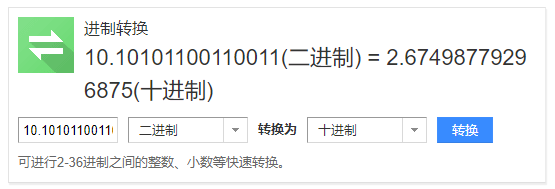
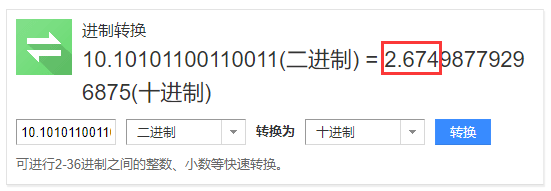
Site updated: 2020-02-25 23:12:59

diff --git a/2020/02/24/Python-四舍五入用-round-？/index.html b/2020/02/24/Python-四舍五入用-round-？/index.html
@@ -52,11 +52,12 @@
 <meta property="og:description" content="网上一查很多资料都说 Python 内置的 round() 是用于四舍五入的函数，其实它包含着很大的坑，本文将会说明。">
 <meta property="og:locale" content="zh_CN">
 <meta property="og:image" content="https://shuxiaoyuan.github.io/2020/02/24/Python-%E5%9B%9B%E8%88%8D%E4%BA%94%E5%85%A5%E7%94%A8-round-%EF%BC%9F/decimal2binary.png">
+<meta property="og:image" content="https://shuxiaoyuan.github.io/2020/02/24/Python-%E5%9B%9B%E8%88%8D%E4%BA%94%E5%85%A5%E7%94%A8-round-%EF%BC%9F/binary2decimal.png">
 <meta property="article:published_time" content="2020-02-24T13:38:33.000Z">
-<meta property="article:modified_time" content="2020-02-25T14:42:53.273Z">
+<meta property="article:modified_time" content="2020-02-25T15:08:57.630Z">
 <meta property="article:author" content="书缘">
-<meta property="article:tag" content="Python 语法">
 <meta property="article:tag" content="Python round()">
+<meta property="article:tag" content="Python 语法">
 <meta property="article:tag" content="Python 的坑">
 <meta name="twitter:card" content="summary">
 <meta name="twitter:image" content="https://shuxiaoyuan.github.io/2020/02/24/Python-%E5%9B%9B%E8%88%8D%E4%BA%94%E5%85%A5%E7%94%A8-round-%EF%BC%9F/decimal2binary.png">
@@ -251,7 +252,7 @@
                   <i class="fa fa-calendar-check-o"></i>
                 </span>
                 <span class="post-meta-item-text">更新于</span>
-                <time title="修改时间：2020-02-25 22:42:53" itemprop="dateModified" datetime="2020-02-25T22:42:53+08:00">2020-02-25</time>
+                <time title="修改时间：2020-02-25 23:08:57" itemprop="dateModified" datetime="2020-02-25T23:08:57+08:00">2020-02-25</time>
               </span>
             <span class="post-meta-item">
               <span class="post-meta-item-icon">
@@ -298,7 +299,7 @@
                 <i class="fa fa-file-word-o"></i>
               </span>
                 <span class="post-meta-item-text">本文字数：</span>
-              <span>1.4k</span>
+              <span>1.6k</span>
             </span>
             <span class="post-meta-item" title="阅读时长">
               <span class="post-meta-item-icon">
@@ -326,7 +327,7 @@
 <p>再上几个打脸的例子：</p>
 <figure class="highlight bash"><table><tbody><tr><td class="gutter"><pre><span class="line">1</span><br><span class="line">2</span><br><span class="line">3</span><br><span class="line">4</span><br><span class="line">5</span><br></pre></td><td class="code"><pre><span class="line"><span class="comment"># Python 3.7.0</span></span><br><span class="line">>>> round(0.5)</span><br><span class="line">0</span><br><span class="line">>>> round(2.5)</span><br><span class="line">2</span><br></pre></td></tr></tbody></table></figure>
 
-<p>纳尼？小数部分的 0.5 为啥被舍掉了，不应该“五入”进一吗？查阅<a href="https://docs.python.org/3/library/functions.html?highlight=round#round" target="_blank" rel="noopener">官方文档</a>可知， round 函数有两个参数，依次是：</p>
+<p>纳尼？小数部分的 0.5 为啥被舍掉了，不应该“五入”进一吗？查阅官方文档可知， round 函数有两个参数，依次是：</p>
 <ul>
 <li>number: 整数或浮点数</li>
 <li>ndigits（可选）：整数。若被省略或为 None 则函数返回整数，否则函数返回值的类型与 number 相同。</li>
@@ -353,15 +354,17 @@
 
 <p>如果你想：我对判断进位的数是 5 的情况特殊处理，还是可以达到四舍五入的目的的。那么请再看下面的示例：</p>
 <figure class="highlight bash"><table><tbody><tr><td class="gutter"><pre><span class="line">1</span><br><span class="line">2</span><br><span class="line">3</span><br></pre></td><td class="code"><pre><span class="line"><span class="comment"># Python 3.7.0</span></span><br><span class="line">>>> round(2.675, 2)</span><br><span class="line">2.67</span><br></pre></td></tr></tbody></table></figure>
-<p>Excuse me??? 不是说 5 的前一位是奇数的话要进一么，怎么又不对了？难道是 Python 的 Bug ？ Python 官方文档说这不算 Bug ，而是浮点数固有的精度丢失问题。我们都知道，计算机存储的任何数据其实都是二进制流，也就是一串 0 和 1。整数在计算机内是可以精确存储的，而大多数浮点数则不然。因为大多数浮点数若用二进制表示，会变得很长甚至无限长，计算机需要将其截断才能存储，这样就丢失了精度。就拿 2.675 来说，它转为二进制后为：</p>
+<p>Excuse me??? 不是说 5 的前一位是奇数的话要进一么，怎么又不对了？难道是 Python 的 Bug ？ Python 官方文档说这不算 Bug ，而是浮点数固有的精度丢失问题。我们都知道，计算机存储的任何数据其实都是二进制流，也就是一串 0 和 1。整数在计算机内是可以精确存储的，而大多数浮点数则不然。因为大多数浮点数若用二进制表示，会变得很长甚至无限长，计算机需要将其截断才能存储，这样就丢失了精度。就拿 2.675 来说，它转为二进制后为：10.1010110011001100（小数点后保留十六位），如下图所示：</p>
 <img src="/2020/02/24/Python-%E5%9B%9B%E8%88%8D%E4%BA%94%E5%85%A5%E7%94%A8-round-%EF%BC%9F/decimal2binary.png" class title="2.675 转为二进制">
 
+<p>我们把这个二进制串再转回十进制，就变成了：2.67498779296875 ，如下图所示：</p>
+<img src="/2020/02/24/Python-%E5%9B%9B%E8%88%8D%E4%BA%94%E5%85%A5%E7%94%A8-round-%EF%BC%9F/binary2decimal.png" class title="二进制转回十进制">
 
-
-<h2 id="总结"><a href="#总结" class="headerlink" title="总结"></a>总结</h2><p>了解到 round() 的坑之后，你还敢用它来四舍五入么？那么有没有现成的替代方案呢？参考文献第 4 篇文章中有讨论，感兴趣的话可以去看一看。</p>
+<p>所以， round(2.675, 2) 的结果就成了 2.67 。更详细的说明可以查阅参考文献 2 。</p>
+<h2 id="总结"><a href="#总结" class="headerlink" title="总结"></a>总结</h2><p>了解到 round() 的坑之后，你还敢用它来四舍五入么？那么有没有现成的替代方案呢？参考文献 4 中有讨论，感兴趣的话可以去看一看。</p>
 <h2 id="参考文献"><a href="#参考文献" class="headerlink" title="参考文献"></a>参考文献</h2><ol>
-<li><a href="https://docs.python.org/3/library/functions.html?highlight=round#round" target="_blank" rel="noopener">round() 官方文档</a></li>
-<li><a href="https://docs.python.org/zh-cn/3/library/functions.html?highlight=round#round" target="_blank" rel="noopener">round() 官方中文文档</a></li>
+<li><a href="https://docs.python.org/3/library/functions.html?highlight=round#round" target="_blank" rel="noopener">round() 官方文档</a> | <a href="https://docs.python.org/zh-cn/3/library/functions.html?highlight=round#round" target="_blank" rel="noopener">round() 官方中文文档</a></li>
+<li><a href="https://docs.python.org/3/tutorial/floatingpoint.html#tut-fp-issues" target="_blank" rel="noopener">官方文档对于浮点数精度丢失的说明</a> | <a href="https://docs.python.org/zh-cn/3/tutorial/floatingpoint.html#tut-fp-issues" target="_blank" rel="noopener">官方中文文档对于浮点数精度丢失的说明</a></li>
 <li><a href="https://www.runoob.com/note/17214" target="_blank" rel="noopener">Python round 四舍五入分析讨论</a></li>
 <li><a href="https://www.cnblogs.com/anpengapple/p/6507271.html" target="_blank" rel="noopener">python中关于round函数的小坑</a></li>
 </ol>
@@ -411,8 +414,8 @@
 
       <footer class="post-footer">
           <div class="post-tags">
-              <a href="/tags/Python-%E8%AF%AD%E6%B3%95/" rel="tag"># Python 语法</a>
               <a href="/tags/Python-round/" rel="tag"># Python round()</a>
+              <a href="/tags/Python-%E8%AF%AD%E6%B3%95/" rel="tag"># Python 语法</a>
               <a href="/tags/Python-%E7%9A%84%E5%9D%91/" rel="tag"># Python 的坑</a>
           </div>
 

diff --git a/index.html b/index.html
@@ -245,7 +245,7 @@
                   <i class="fa fa-calendar-check-o"></i>
                 </span>
                 <span class="post-meta-item-text">更新于</span>
-                <time title="修改时间：2020-02-25 22:42:53" itemprop="dateModified" datetime="2020-02-25T22:42:53+08:00">2020-02-25</time>
+                <time title="修改时间：2020-02-25 23:08:57" itemprop="dateModified" datetime="2020-02-25T23:08:57+08:00">2020-02-25</time>
               </span>
             <span class="post-meta-item">
               <span class="post-meta-item-icon">
@@ -292,7 +292,7 @@
                 <i class="fa fa-file-word-o"></i>
               </span>
                 <span class="post-meta-item-text">本文字数：</span>
-              <span>1.4k</span>
+              <span>1.6k</span>
             </span>
             <span class="post-meta-item" title="阅读时长">
               <span class="post-meta-item-icon">

diff --git a/css/main.css b/css/main.css
@@ -1186,7 +1186,7 @@ pre .javascript .function {
 }
 .links-of-author a::before,
 .links-of-author span.exturl::before {
-  background: #ff6bec;
+  background: #ff3026;
   border-radius: 50%;
   content: ' ';
   display: inline-block;
